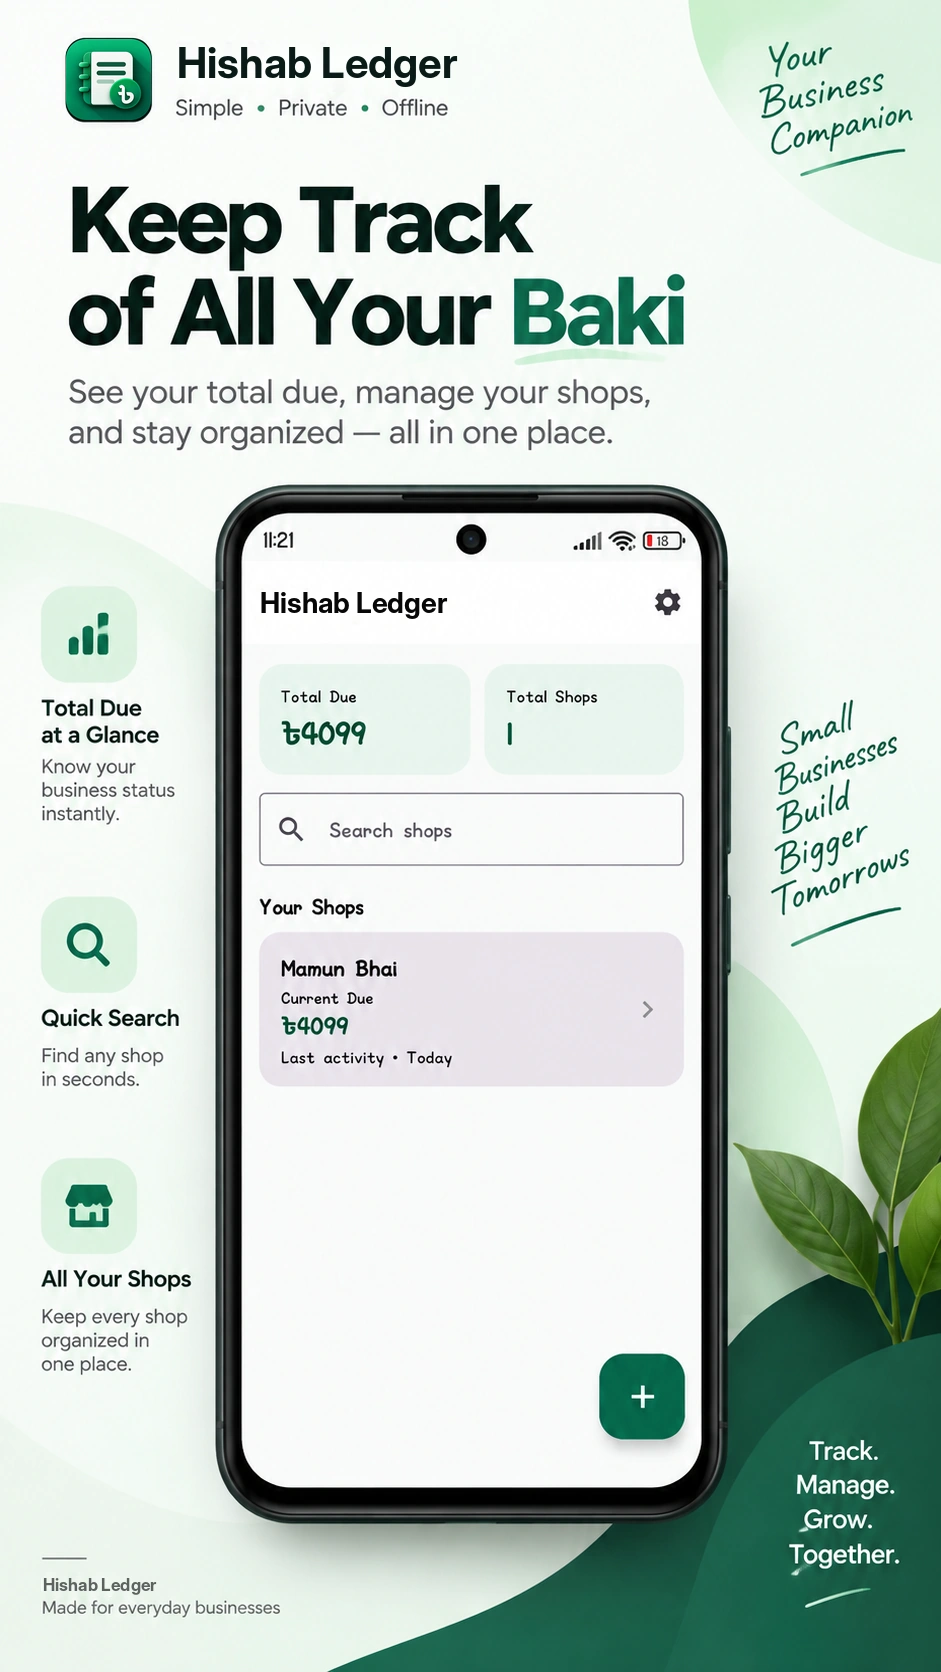
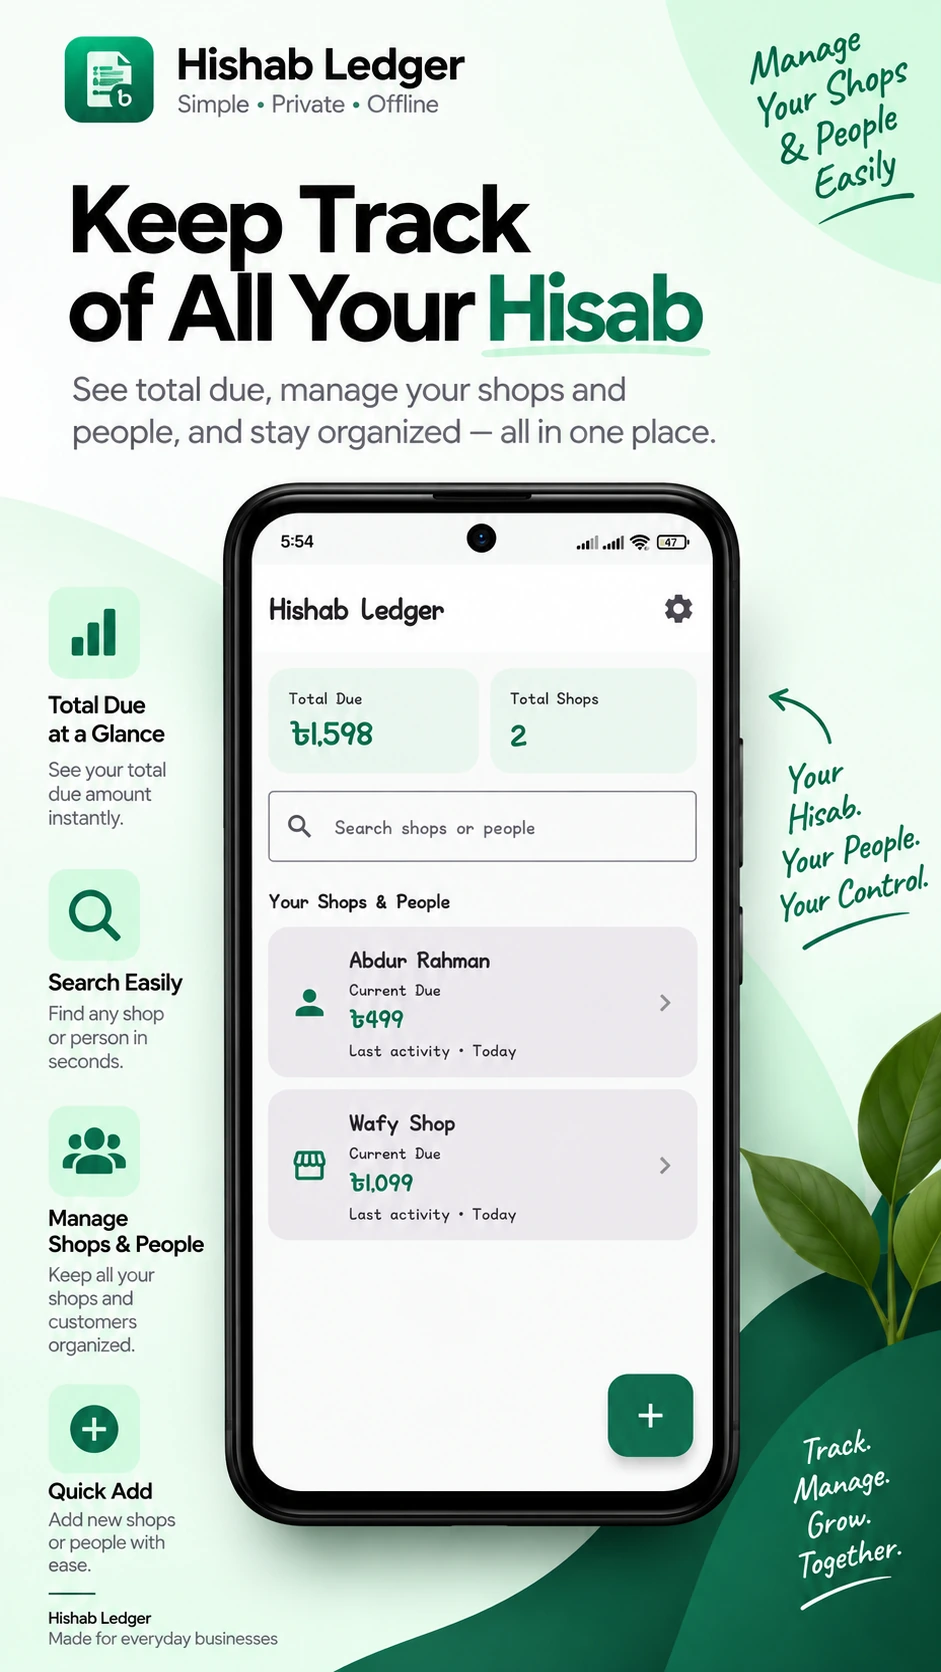
Add files via upload

diff --git a/screenshots/index.html b/screenshots/index.html
@@ -4,21 +4,21 @@
 <meta charset="utf-8">
 <meta name="viewport" content="width=device-width, initial-scale=1">
 <title>Hishab Ledger Screenshots — Personal Hisab & Due Tracker App</title>
-<meta name="description" content="Explore six professionally designed Hishab Ledger app screenshots covering the home dashboard, shop setup, shop details, due entry, payment entry and local backup. Built for simple personal use.">
+<meta name="description" content="Explore five professionally designed Hishab Ledger app screenshots covering the home dashboard, shop or person setup, account details, shop details and secure local settings. Built for simple personal use.">
 <meta name="robots" content="index,follow">
 <meta name="author" content="Afee Muhammod Wafy">
 <link rel="canonical" href="https://hishabledger.amwafy.xyz/screenshots/">
 <meta property="og:type" content="website">
 <meta property="og:site_name" content="Hishab Ledger">
 <meta property="og:title" content="Hishab Ledger Screenshots — Personal Hisab & Due Tracker App">
-<meta property="og:description" content="See Hishab Ledger in action across six polished app screens designed around simple, private and offline personal hisab tracking.">
+<meta property="og:description" content="See Hishab Ledger in action across five polished app screens designed around simple, private and offline hisab tracking.">
 <meta property="og:url" content="https://hishabledger.amwafy.xyz/screenshots/">
 <meta property="og:image" content="https://hishabledger.amwafy.xyz/assets/feature-graphic.webp">
 <meta property="og:image:width" content="1024">
 <meta property="og:image:height" content="500">
 <meta name="twitter:card" content="summary_large_image">
 <meta name="twitter:title" content="Hishab Ledger Screenshots — Personal Hisab & Due Tracker App">
-<meta name="twitter:description" content="Six polished Hishab Ledger screens for personal due tracking, shop records, payments and offline backup.">
+<meta name="twitter:description" content="Five polished Hishab Ledger screens for due tracking, shop and person records, payments and secure offline settings.">
 <meta name="twitter:image" content="https://hishabledger.amwafy.xyz/assets/feature-graphic.webp">
 <link rel="icon" type="image/x-icon" href="../favicon.ico">
 <link rel="icon" type="image/webp" sizes="48x48" href="../assets/favicon-48x48.webp">
@@ -30,11 +30,10 @@
 
 <link rel="preload" as="image" href="../assets/hishabledger-icon.webp" fetchpriority="high">
 <link rel="preload" as="image" href="./01-home.webp" fetchpriority="high">
-<link rel="preload" as="image" href="./02-add-shop.webp" fetchpriority="high">
-<link rel="preload" as="image" href="./03-shop-details.webp" fetchpriority="high">
-<link rel="preload" as="image" href="./04-add-due.webp" fetchpriority="high">
-<link rel="preload" as="image" href="./05-add-payment.webp" fetchpriority="high">
-<link rel="preload" as="image" href="./06-settings.webp" fetchpriority="high">
+<link rel="preload" as="image" href="./02-add-shop-or-person.webp" fetchpriority="high">
+<link rel="preload" as="image" href="./03-person-details.webp" fetchpriority="high">
+<link rel="preload" as="image" href="./04-shop-details.webp" fetchpriority="high">
+<link rel="preload" as="image" href="./05-settings.webp" fetchpriority="high">
 <link rel="stylesheet" href="../styles.css">
 </head>
 <body>
@@ -55,12 +54,11 @@
 <main>
 <section class="page-hero"><div class="container"><div class="kicker">Screenshots</div><h1>See Hishab Ledger <span>in action.</span></h1><p class="lead">Six professionally designed views showing the simple personal workflow for managing hisab, shops, payments and offline backups.</p></div></section>
 <section class="section"><div class="container screens">
-<figure class="screen-card"><img src="./01-home.webp" alt="Hishab Ledger home dashboard showing total due, total shops and a shop list"  loading="eager" decoding="async"><figcaption>Home — see your total hisab and shops at a glance.</figcaption></figure>
-<figure class="screen-card"><img src="./02-add-shop.webp" alt="Hishab Ledger Add Shop screen for starting a personal shop record"  loading="eager" decoding="async"><figcaption>Add Shop — start a separate record in seconds.</figcaption></figure>
-<figure class="screen-card"><img src="./03-shop-details.webp" alt="Hishab Ledger shop details screen with balance, actions and transaction history"  loading="eager" decoding="async"><figcaption>Shop Details — balance, actions and history in one place.</figcaption></figure>
-<figure class="screen-card"><img src="./04-add-due.webp" alt="Hishab Ledger Add Due screen for recording a new amount"  loading="eager" decoding="async"><figcaption>Add Due — record a new amount quickly.</figcaption></figure>
-<figure class="screen-card"><img src="./05-add-payment.webp" alt="Hishab Ledger Add Payment screen for recording a payment"  loading="eager" decoding="async"><figcaption>Add Payment — keep your balance updated.</figcaption></figure>
-<figure class="screen-card"><img src="./06-settings.webp" alt="Hishab Ledger Settings screen with local backup and CSV export"  loading="eager" decoding="async"><figcaption>Backup & Data — keep your records under your control.</figcaption></figure>
+<figure class="screen-card"><img src="./01-home.webp" alt="Hishab Ledger home dashboard showing total due, total shops, search and shops and people" loading="eager" decoding="async"><figcaption>Home — see your total hisab, shops and people at a glance.</figcaption></figure>
+<figure class="screen-card"><img src="./02-add-shop-or-person.webp" alt="Hishab Ledger Add Shop or Person screen with shop and person options" loading="lazy" decoding="async"><figcaption>Add Shop or Person — create a record with the details you need.</figcaption></figure>
+<figure class="screen-card"><img src="./03-person-details.webp" alt="Hishab Ledger person details screen for Abdur Rahman with dues, payments and transaction history" loading="lazy" decoding="async"><figcaption>Person Details — track dues, payments and transaction history.</figcaption></figure>
+<figure class="screen-card"><img src="./04-shop-details.webp" alt="Hishab Ledger shop details screen for Wafy Shop with balance, payments and transaction history" loading="lazy" decoding="async"><figcaption>Shop Details — manage balance, payments and history in one place.</figcaption></figure>
+<figure class="screen-card"><img src="./05-settings.webp" alt="Hishab Ledger Settings screen with backup, app lock and recently deleted options" loading="lazy" decoding="async"><figcaption>Settings — backup, protect and manage your local records.</figcaption></figure>
 </div></section>
 <section class="section" style="padding-top:0"><div class="container"><div class="card"><div class="kicker">Simple by design</div><h2>Your Hisab. Your Records. Your Control.</h2><p class="muted">Hishab Ledger is built for personal use: quick due and payment tracking, separate shop records, and local backup without requiring an account or an online connection.</p><div class="actions"><a class="btn btn-primary" href="../features/">See all features</a><a class="btn btn-soft" href="../download/">Get Hishab Ledger</a></div></div></div></section>
 </main>
